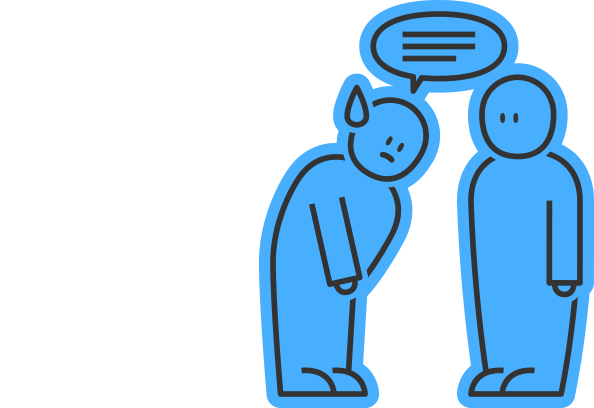
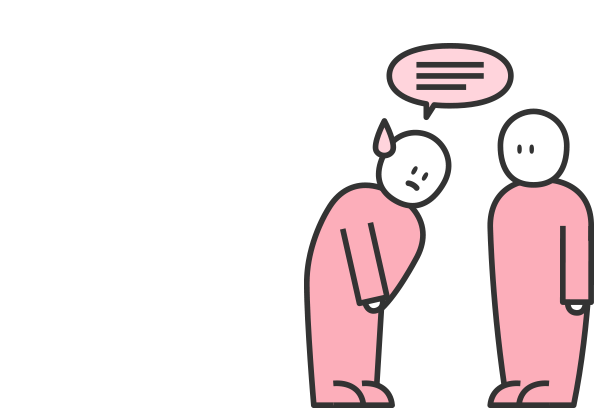
이미지 교체

diff --git a/img/virtual_0.html b/img/virtual_0.html
@@ -65,7 +65,7 @@
           </div>
         </div>
         <div class="wrap__img">
-          <img class="img__main--0" src="img/virtual-title.png" />
+          <img class="img__main--0" src="img/virtual-title.gif" />
         </div>
       </div>
     </div>

diff --git a/img/css/virtual.css b/img/css/virtual.css
@@ -34,7 +34,7 @@ a:active {
 body {
   position: relative;
   font-size: 16px;
-  font-family: 'Noto Sans', Helvetica, Arial, serif;
+  font-family: "Noto Sans KR", sans-serif;
   font-style: normal;
   text-align: center;
   text-decoration: none;
